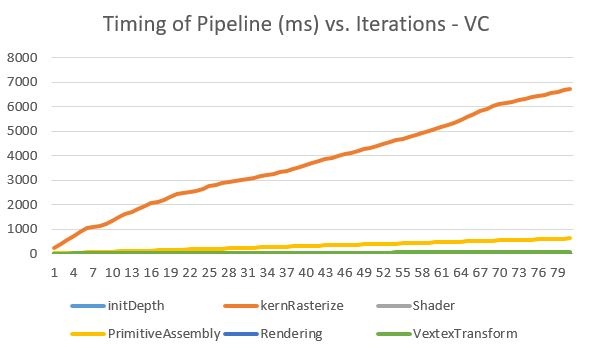
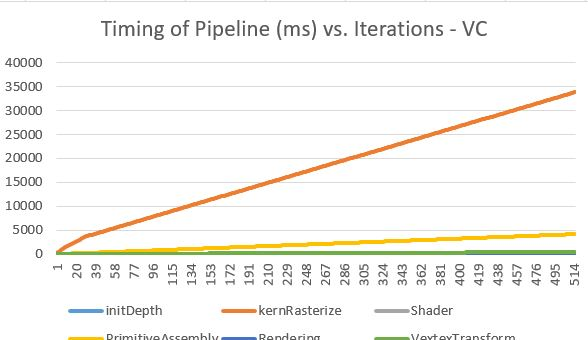
analysis

Changed region(s): [[0.0, 0.1471, 1.0, 1.0], [0.1531, 0.0294, 0.8265, 0.1176]]

diff --git a/README.md b/README.md
@@ -60,6 +60,16 @@ Pipeline Timing(ms) - VC | Pipeline Timing(ms) - Cow |Pipeline Timing(ms) - Box
 :-------------------------:|:-------------------------:  |:-------------------------:
 ![](imgs/ana1.JPG) | ![](imgs/ana2.JPG) |![](imgs/ana3.JPG)
 ![](imgs/ana4.JPG) | ![](imgs/ana5.JPG) |![](imgs/ana6.JPG)
+triangle width-mean :20 |  triangle width-mean :2~3 |triangle width-mean :77
+
+Charts above shows that the number of primitives is not the dominant factor effecting the breakdown of time spent in each pipeline stage. 
+Indeed, the stage that consumes most of the time is rasterizing; however, it's not proportional to the number of primitives.
+In cases of cow, we have >5000 primitives in total, the rasterizing stage only consumes 36 percent of the total time;
+on the contrast, the box only has 12 primitives, the rasterizing consumes more than 93 percent of the total time. 
+A more careful examination of the rasterizing stage reveals another important factor in the rasterizing stage: the primitive size.
+As for each kernel we have to iterate through the entire boundary box to compute each fragments within a triangle, increasing the average triangle size 
+might significantly decrease the performance. If we can saturate the threads as much as possible while decrease the average size of the triangle, we
+expect an improvment in the performance.
 
 #PS: looking for models: just we & just tank
 
